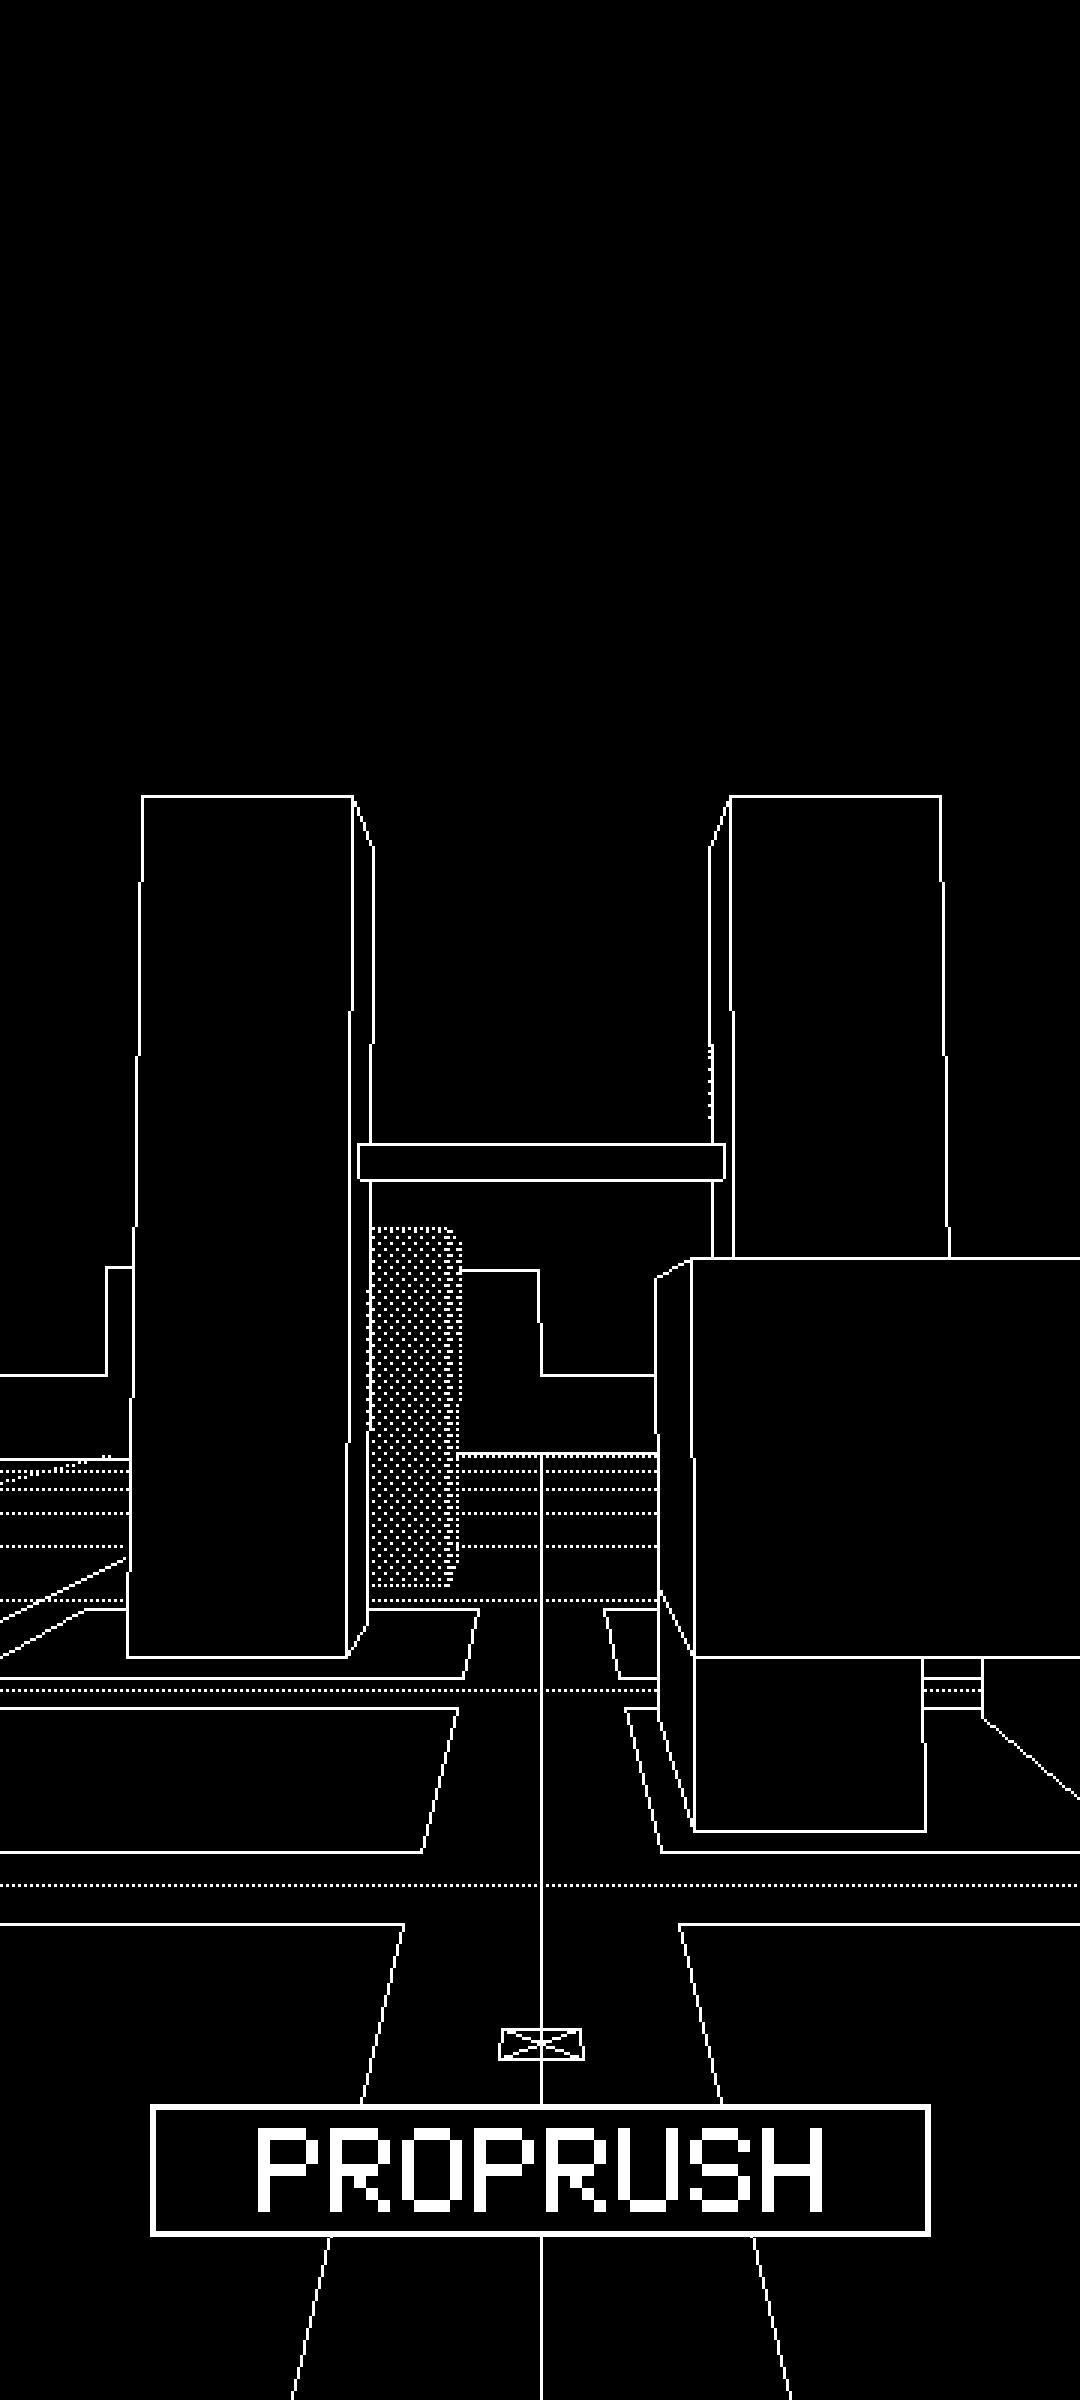
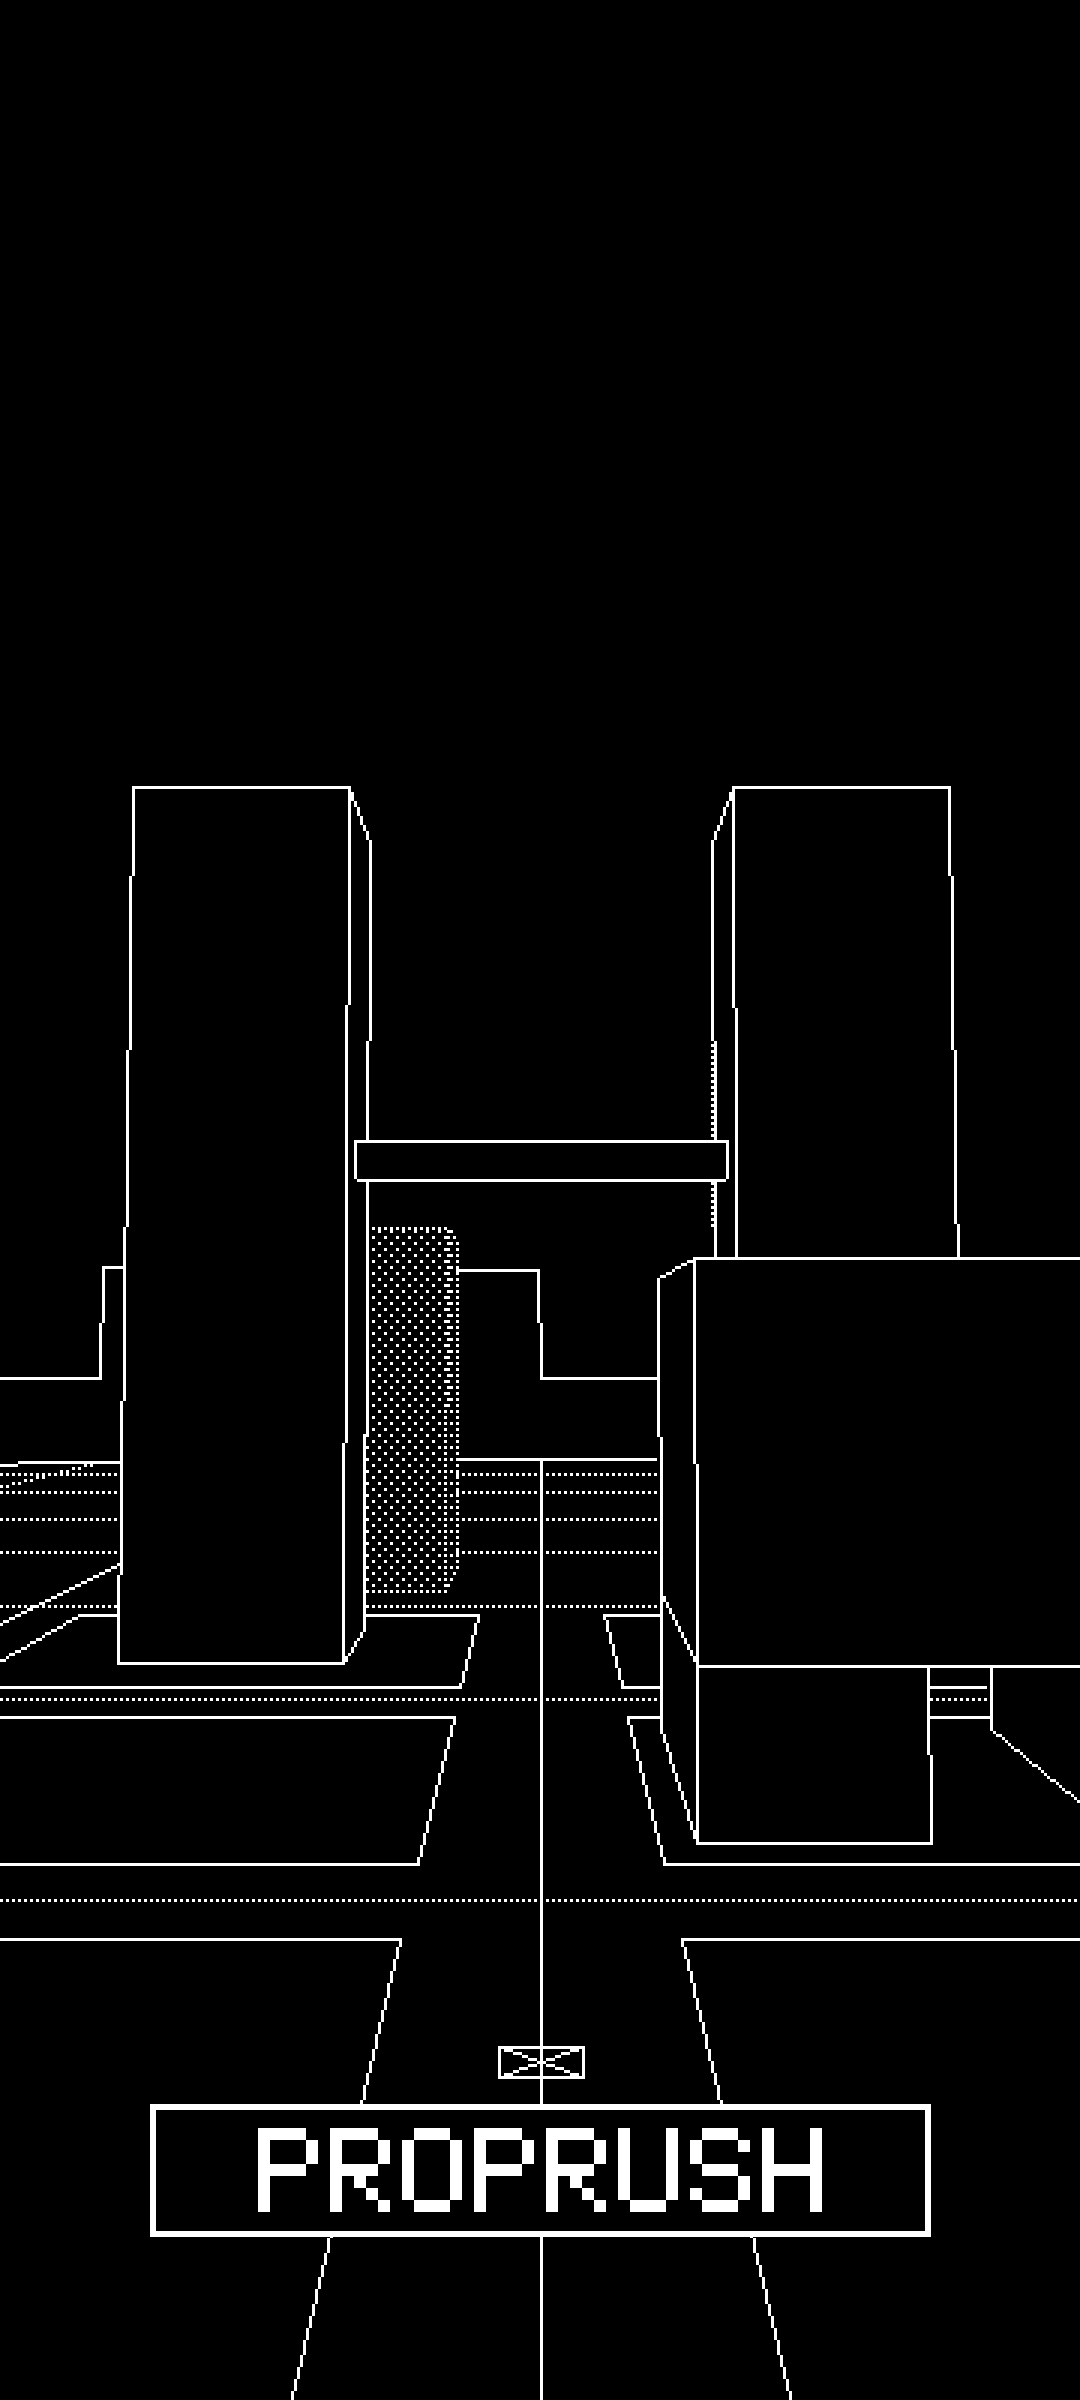
Wallpaper script: wallpapers/wallpapers.sh renders shots.lua through trailer.lua and composes the PNGs

diff --git a/wallpapers/compose.py b/wallpapers/compose.py
@@ -1,0 +1,51 @@
+"""Phone wallpapers (1080 x 2400) from wallpapers.sh's frames: white lines on black, each pixel 3 x 3, the PROPRUSH
+title from the trailer's title card on a framed plate near the bottom. Usage: compose.py <frames dir> <out dir>"""
+
+import sys
+
+from PIL import Image, ImageDraw, ImageFilter, ImageOps
+
+FRAMES, OUT = sys.argv[1], sys.argv[2]
+W, H, K = 1080, 2400, 3
+CROP = 360
+INK, PAPER = (255, 255, 255), (0, 0, 0)
+# Shot, frame kept; the stills are held, the chase is in the drift's second corner
+SHOTS = [
+    ("city-skybridge", 25),
+    ("vibetown", 25),
+    ("yard-crane", 25),
+    ("apex", 25),
+    ("flatout", 25),
+    ("car-chase", 190),
+]
+
+
+def frame(name, n):
+    return Image.open("%s/%s_%04d.png" % (FRAMES, name, n)).convert("L")
+
+
+def portrait(im, car):
+    cx = im.width // 2
+    if car:
+        # The car's wheels are the only solid black in the frame: what is left after a 5 px erosion
+        box = im.point(lambda v: 255 if v < 100 else 0).filter(ImageFilter.MinFilter(5)).getbbox()
+        if box:
+            cx = (box[0] + box[2]) // 2
+    x0 = max(0, min(im.width - CROP, cx - CROP // 2))
+    return im.crop((x0, 0, x0 + CROP, im.height))
+
+
+def ink(m):
+    return ImageOps.colorize(m.point(lambda v: 255 if v > 127 else 0), INK, PAPER)
+
+
+title = ink(frame("title", 60).crop((0, 10, 128, 30)))
+title = title.resize((title.width * 6, title.height * 6), Image.NEAREST)
+for name, n in SHOTS:
+    img = ink(portrait(frame(name, n), name == "car-chase")).resize((W, H), Image.NEAREST)
+    x, y = (W - title.width) // 2, H - title.height - 170
+    ImageDraw.Draw(img).rectangle(
+        [x - 6, y - 6, x + title.width + 6, y + title.height + 6], fill=PAPER, outline=INK, width=6
+    )
+    img.paste(title, (x, y))
+    img.save("%s/proprush-%s.png" % (OUT, name))
